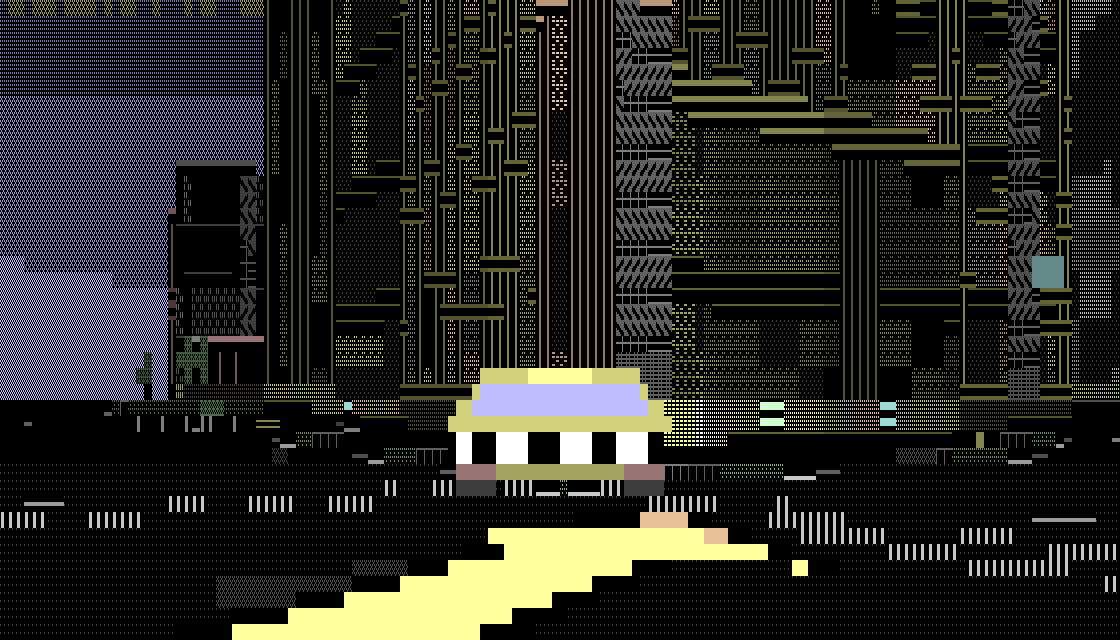
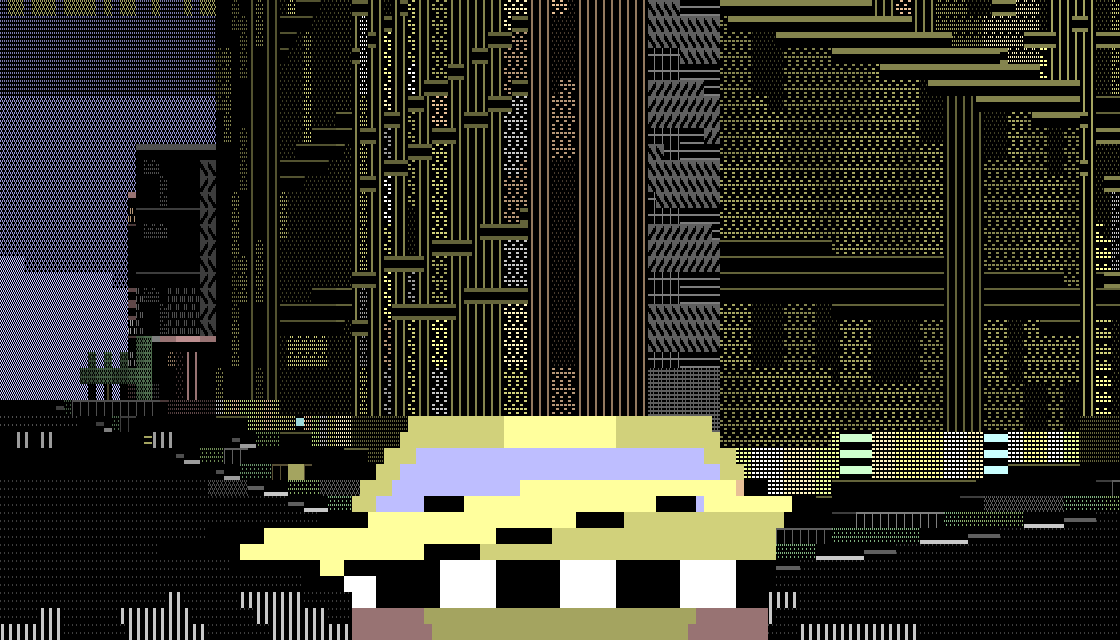
The camera comes in close and sits up
The boom is half what it was - one and a quarter car-lengths rather than two
and a half - and the eye is a quarter higher.  Both point the same way: from
further back and lower down you are a camera following a car, and from nearer
and higher up you are looking over its roof at the road, which is the shot
this game is.

They fight over one number, which is worth writing down because the first
attempt at it lost half the cab off the bottom of the screen.  The car's foot
lands `eye x scale / boom` rows below the horizon: halving the boom doubles
that, and raising the eye adds to it again.  At six fifths of a cell - the
height that looked right on its own - the cab's whole lower half was off a
forty-row frame.  One cell keeps about four fifths of the car and gives the
rest of the frame to the street.

THE ARROW HAD TO STOP BEING A DISTANCE

It sat four cells in front of the camera, which was fine until the camera
moved: four cells of road is now off the bottom of the frame, and the arrow
went with it.  It is placed by *screen row* instead - four fifths of the way
down - and the distance is solved from that, `eye x scale / rows below the
horizon`.  Its size is a fraction of that distance, so it stays the same size
on screen as well.  The camera can now be moved without taking the compass
with it.

293 tests.

diff --git a/crates/ascitty-tty/src/hud.rs b/crates/ascitty-tty/src/hud.rs
@@ -41,50 +41,59 @@ pub struct Status<'a> {
     pub flash: Option<&'static str>,
 }
 
-/// Where the middle of the arrow sits, in cells of road in front of the
-/// camera.
+/// Where the middle of the arrow sits, as a fraction of the way down the
+/// frame.
 ///
-/// Four cells.  The chase camera sits five and a half behind the cab, and
-/// the bottom row of the frame is about two and a half cells of road in
-/// front of it, so an arrow centred here runs from the bottom edge of the
-/// screen to about the middle of the taxi - which is where it was asked to
-/// be, and which is the only part of the road you can see all of.
-const ARROW_AHEAD: Fx = fixed::ratio(4, 1);
-/// Half its length, in cells of road.
-const ARROW_LONG: Fx = fixed::ratio(8, 5);
-/// Half the width of its shaft, in cells of road.
-const ARROW_SHAFT: Fx = fixed::ratio(7, 20);
-/// Half the width of the head where it is widest.
-const ARROW_BARB: Fx = fixed::ratio(11, 10);
-/// Where along the arrow the head starts, from the middle.
-const ARROW_NECK: Fx = fixed::ratio(2, 5);
-/// How thick the black outline is, in cells of road.
-const ARROW_EDGE: Fx = fixed::ratio(1, 6);
-/// How far back from the point the tip is a different colour, in cells of
-/// road.
+/// Four fifths: low enough to be under the car and out of the way of the
+/// road ahead, high enough to be on the screen.
+///
+/// A *screen* position rather than a distance, and that is the point of it.
+/// The obvious version is "four cells in front of the camera", and it works
+/// until the camera moves: raising the eye and shortening the boom - which
+/// is one change to how the game is framed, not to the arrow - put four
+/// cells of road off the bottom of the frame and took the arrow with it.
+/// Solving for the distance that lands on a given row instead means the
+/// arrow stays where it was put whatever the camera does.
+const ARROW_ROW: Fx = fixed::ratio(4, 5);
+/// Half the arrow's length, as a fraction of how far away it is.
+///
+/// It is sized in world units, so this keeps it the same size on the screen
+/// as the camera changes: further away, proportionally bigger.
+const ARROW_LONG: Fx = fixed::ratio(2, 5);
+/// Half the width of its shaft, as a fraction of its length.
+const ARROW_SHAFT: Fx = fixed::ratio(22, 100);
+/// Half the width of the head where it is widest, likewise.
+const ARROW_BARB: Fx = fixed::ratio(70, 100);
+/// Where along the arrow the head starts, from the middle, likewise.
+const ARROW_NECK: Fx = fixed::ratio(25, 100);
+/// How thick the black outline is, likewise.
+const ARROW_EDGE: Fx = fixed::ratio(10, 100);
+/// How far back from the point the tip is a different colour, as a fraction
+/// of the arrow's length.
 ///
 /// Half a cell.  An arrow is symmetrical enough at a glance that the head
 /// and the tail can be read the wrong way round in the corner of your eye,
 /// and the whole job of this thing is to be read in the corner of your eye.
 /// One end being a different colour settles it without needing a second
 /// look.
-const ARROW_TIP: Fx = fixed::ratio(3, 5);
+const ARROW_TIP: Fx = fixed::ratio(3, 10);
 
 /// Whether a point in the arrow's own coordinates is inside it.
 ///
 /// `u` runs along the arrow, positive towards the point; `v` runs across.
 /// `grow` inflates the whole shape, which is how the outline is drawn: the
 /// same test, a little bigger, in black, underneath.
-fn in_arrow(u: Fx, v: Fx, grow: Fx) -> bool {
-    let long = ARROW_LONG + grow;
+fn in_arrow(u: Fx, v: Fx, size: Fx, grow: Fx) -> bool {
+    let long = size + grow;
+    let neck = fixed::mul(size, ARROW_NECK);
     if u < -long || u > long {
         return false;
     }
-    if u <= ARROW_NECK {
-        fixed::abs(v) <= ARROW_SHAFT + grow
+    if u <= neck {
+        fixed::abs(v) <= fixed::mul(size, ARROW_SHAFT) + grow
     } else {
-        let along = fixed::div(long - u, long - ARROW_NECK).clamp(0, ONE);
-        fixed::abs(v) <= fixed::mul(ARROW_BARB + grow, along)
+        let along = fixed::div(long - u, long - neck).clamp(0, ONE);
+        fixed::abs(v) <= fixed::mul(fixed::mul(size, ARROW_BARB) + grow, along)
     }
 }
 
@@ -136,6 +145,16 @@ pub fn arrow_on_the_road(f: &mut Frame, p: &Proj, fov: Fx, bearing: i32, tick: u
     let tip = Cel { glyph: catalog::G_SOLID, color: palette::rgb_index(palette::H_ORANGE, 6) };
     let outline = Cel { glyph: catalog::G_SOLID, color: palette::rgb_index(palette::H_BLACK, 0) };
 
+    // How far up the road the arrow sits, solved from where on the screen it
+    // is wanted: ground `d` away lands `eye x scale / d` rows below the
+    // horizon, so a row four fifths down the frame is this far out.
+    let want_row = fixed::floor(fixed::mul(fixed::from_int(p.h), ARROW_ROW));
+    let below = fixed::from_int((want_row - p.horizon).max(1));
+    let ahead = fixed::div(fixed::mul(p.eye, p.proj), below);
+    let size = fixed::mul(ahead, ARROW_LONG);
+    let edge = fixed::mul(size, ARROW_EDGE);
+    let tip_at = size - fixed::mul(size, ARROW_TIP);
+
     let half = fixed::from_int(p.w / 2);
     for y in (p.horizon + 1).max(0)..p.h.min(f.h as i32) {
         // How far up the road this row is.  The same expression the floor
@@ -148,18 +167,17 @@ pub fn arrow_on_the_road(f: &mut Frame, p: &Proj, fov: Fx, bearing: i32, tick: u
         }
         // Where the arrow is, relative to this row: along the road, and
         // then rotated into the arrow's own frame.
-        let ahead = d - ARROW_AHEAD;
+        let along = d - ahead;
         for x in 0..f.w as i32 {
             // How far across the road this column is, at that distance.
             let camx = fixed::div(fixed::from_int(x) + fixed::HALF - half, half);
             let across = fixed::mul(fixed::mul(d, fov), camx);
-            let u = fixed::mul(ahead, cos) + fixed::mul(across, sin);
-            let v = fixed::mul(across, cos) - fixed::mul(ahead, sin);
-            if in_arrow(u, v, 0) {
+            let u = fixed::mul(along, cos) + fixed::mul(across, sin);
+            let v = fixed::mul(across, cos) - fixed::mul(along, sin);
+            if in_arrow(u, v, size, 0) {
                 // The point itself, and only the point.
-                let end = u > ARROW_LONG - ARROW_TIP;
-                f.put(x, y, if end { tip } else { body });
-            } else if in_arrow(u, v, ARROW_EDGE) {
+                f.put(x, y, if u > tip_at { tip } else { body });
+            } else if in_arrow(u, v, size, edge) {
                 f.put(x, y, outline);
             }
         }

diff --git a/crates/ascitty-tty/src/main.rs b/crates/ascitty-tty/src/main.rs
@@ -419,8 +419,12 @@ fn chase(cam: &mut Camera, sim: &Sim, city: &City, rows: i32, head: &mut Head, h
     // length and this did not: at two and a quarter cells the boom was
     // barely longer than the cab's own half-length once the vehicles were
     // doubled, so the camera sat inside the boot and the frame was a
-    // yellow wall.  Two and a half car-lengths back.
-    let want = fixed::mul(sim.taxi.kind.half_len(), fixed::from_int(5)) + fixed::ratio(1, 2);
+    // yellow wall.
+    //
+    // Halved since - one and a quarter car-lengths rather than two and a
+    // half.  A long boom puts the cab in the middle distance and the game in
+    // the middle of a wide shot; a short one puts you behind the car.
+    let want = fixed::mul(sim.taxi.kind.half_len(), fixed::ratio(5, 2)) + fixed::ratio(1, 4);
     let mut boom = want;
     while boom > fixed::ratio(1, 4) {
         let x = sim.taxi.x - fixed::mul(dx, boom);
@@ -437,7 +441,20 @@ fn chase(cam: &mut Camera, sim: &Sim, city: &City, rows: i32, head: &mut Head, h
         cam.y = sim.taxi.y;
     }
     // Head height for a car, above whatever the ground is doing here.
-    cam.z = city.ground(fixed::floor(cam.x), fixed::floor(cam.y)) + fixed::ratio(4, 5);
+    //
+    // A quarter higher than it was, over a boom half as long.  Both changes
+    // point the same way: from further back and lower down you are a camera
+    // following a car, and from nearer and higher up you are looking over
+    // its roof at the road, which is the shot this game is.
+    //
+    // The two do fight over one thing, and the number is a compromise
+    // between them.  The car's foot lands `eye x scale / boom` rows below
+    // the horizon, so halving the boom doubles that and raising the eye
+    // adds to it again: at six fifths of a cell the cab's whole lower half
+    // was off the bottom of a forty-row frame.  At one cell it keeps about
+    // four fifths of the car and gives the rest of the frame to the street,
+    // which is what the height was raised for.
+    cam.z = city.ground(fixed::floor(cam.x), fixed::floor(cam.y)) + ONE;
     // Looking slightly down at the road, plus wherever the driver's head has
     // got to.  Positive pitch is down, so a head thrown back by the throttle
     // subtracts and you see sky.

diff --git a/README.md b/README.md
@@ -1,6 +1,6 @@
 # ASCITTY — a raytraced ASCII city
 
-**v0.5.0 · 19 August 2026**
+**v0.5.1 · 19 August 2026**
 
 A city built entirely out of typeable characters, rendered in real time, on a
 colour terminal and on a **Commodore Plus/4** — and a taxi game inside it.
@@ -17,13 +17,13 @@ the same string.
 
 *Street level in block elements and colour, which is what you actually get.
 `ascitty --shot 520 --size 140x40 --seed 99 --tour --walk --sky 0 --day 0` —
-**v0.5.0**, 19 Aug 2026.*
+**v0.5.1**, 19 Aug 2026.*
 
 ## Watch it drive itself
 
 ![The cab driving itself down a street, traffic ahead of it, the fare marker glowing on the pavement](docs/media/demo.gif)
 
-*Eight seconds of `make demo`, recorded by `make gif` — **v0.5.0**, 19 Aug
+*Eight seconds of `make demo`, recorded by `make gif` — **v0.5.1**, 19 Aug
 2026. Small and short because a GIF is a whole frame every frame; `make
 cast` records the same run as an asciinema file, which stays sharp at any
 size and is a tenth of the bytes.*
@@ -45,7 +45,7 @@ make gif       # ...or to docs/media/demo.gif
 
 ![The taxi from behind, chequer band along its flank, a saloon alongside on the avenue](docs/media/drive.png)
 
-*The chase camera, from `make demo` at `--sky 3` — **v0.5.0**, 19 Aug 2026.
+*The chase camera, from `make demo` at `--sky 3` — **v0.5.1**, 19 Aug 2026.
 The cab's
 heading and the camera's are not the same thing: the boom lags a turn by a
 few frames, so a slide is watched from outside the spin.*
@@ -79,7 +79,7 @@ It starts in the first one.
 
 ![The city from above the tallest roof: towers seen down their faces, rooftops and fire escapes below](docs/media/copter.png)
 
-*The copter, from `--copter --haze 1 --sky 5` — **v0.5.0**, 19 Aug 2026. How
+*The copter, from `--copter --haze 1 --sky 5` — **v0.5.1**, 19 Aug 2026. How
 far
 down it looks is worked out from how high it is, how far the haze lets it
 see and how many rows the frame has, rather than being a fixed tilt — see
@@ -223,7 +223,7 @@ prints them.
 
 ![The cab at a green sunset, the sky pale at the horizon and darkening above it](docs/media/sunset.png)
 
-*`--sky 8 --day 0` — **v0.5.0**, 19 Aug 2026. The green sunset, held still
+*`--sky 8 --day 0` — **v0.5.1**, 19 Aug 2026. The green sunset, held still
 for the picture.*
 
 A phase change does not cross-fade. Two hues cannot be mixed in a palette
@@ -325,7 +325,7 @@ all:
 ```
 
 *`ascitty --shot 520 --size 92x20 --seed 99 --tour --walk --mode ascii` —
-**v0.5.0**, 19 Aug 2026. The mode the name is about, and the one that runs
+**v0.5.1**, 19 Aug 2026. The mode the name is about, and the one that runs
 anywhere a terminal runs.*
 
 ## Downloads
@@ -534,10 +534,10 @@ place to start.
 
 ```sh
 $ ascitty --version
-ascitty 0.5.0 (seed 0xa5c1771e)
+ascitty 0.5.1 (seed 0xa5c1771e)
 ```
 
-Releases are tagged `v0.5.0` and so on, and every picture in this README
+Releases are tagged `v0.5.1` and so on, and every picture in this README
 says which build drew it. Regenerating them is `make shot` and `make gif`;
 the seed is fixed, so the same tag renders the same frames.
 
@@ -546,7 +546,7 @@ the seed is fixed, so the same tag renders the same frames.
 ![The Plus/4 build running in VICE](docs/media/plus4.png)
 
 *The `.prg` booted in VICE and photographed by `tools/viceshot.sh` — a
-40×25 city on a 1.76 MHz 7501. **v0.5.0**, 19 Aug 2026.*
+40×25 city on a 1.76 MHz 7501. **v0.5.1**, 19 Aug 2026.*
 
 `build/ascitty.prg` and `build/ascitty.d64` are the real thing: a 40×25
 city, in colour, on a 1.76 MHz 7501, with a character set generated on a

diff --git a/docs/camera.md b/docs/camera.md
@@ -60,6 +60,16 @@ about it are deliberate.
 A flick of the wheel swings the view a moment later, so a drift is watched
 from the outside rather than from inside the spin.
 
+**It sits one and a quarter car-lengths back and one cell up.** Near and
+high, which is one change and not two: from further back and lower down you
+are a camera following a car, and from nearer and higher up you are looking
+over its roof at the road. The two fight over one number — the car's foot
+lands `eye × scale ÷ boom` rows below the horizon, so halving the boom
+doubles that and raising the eye adds to it again, and at the height that
+first looked right the cab's whole lower half was off the bottom of a
+forty-row frame. One cell keeps about four fifths of the car and gives the
+rest of the frame to the street, which is what the height was raised for.
+
 **The boom shortens until it is out of a building.** A chase camera that
 clips through a wall shows you the inside of the wall at exactly the moment
 you most need to see the road, so the boom is tried at its full length and
